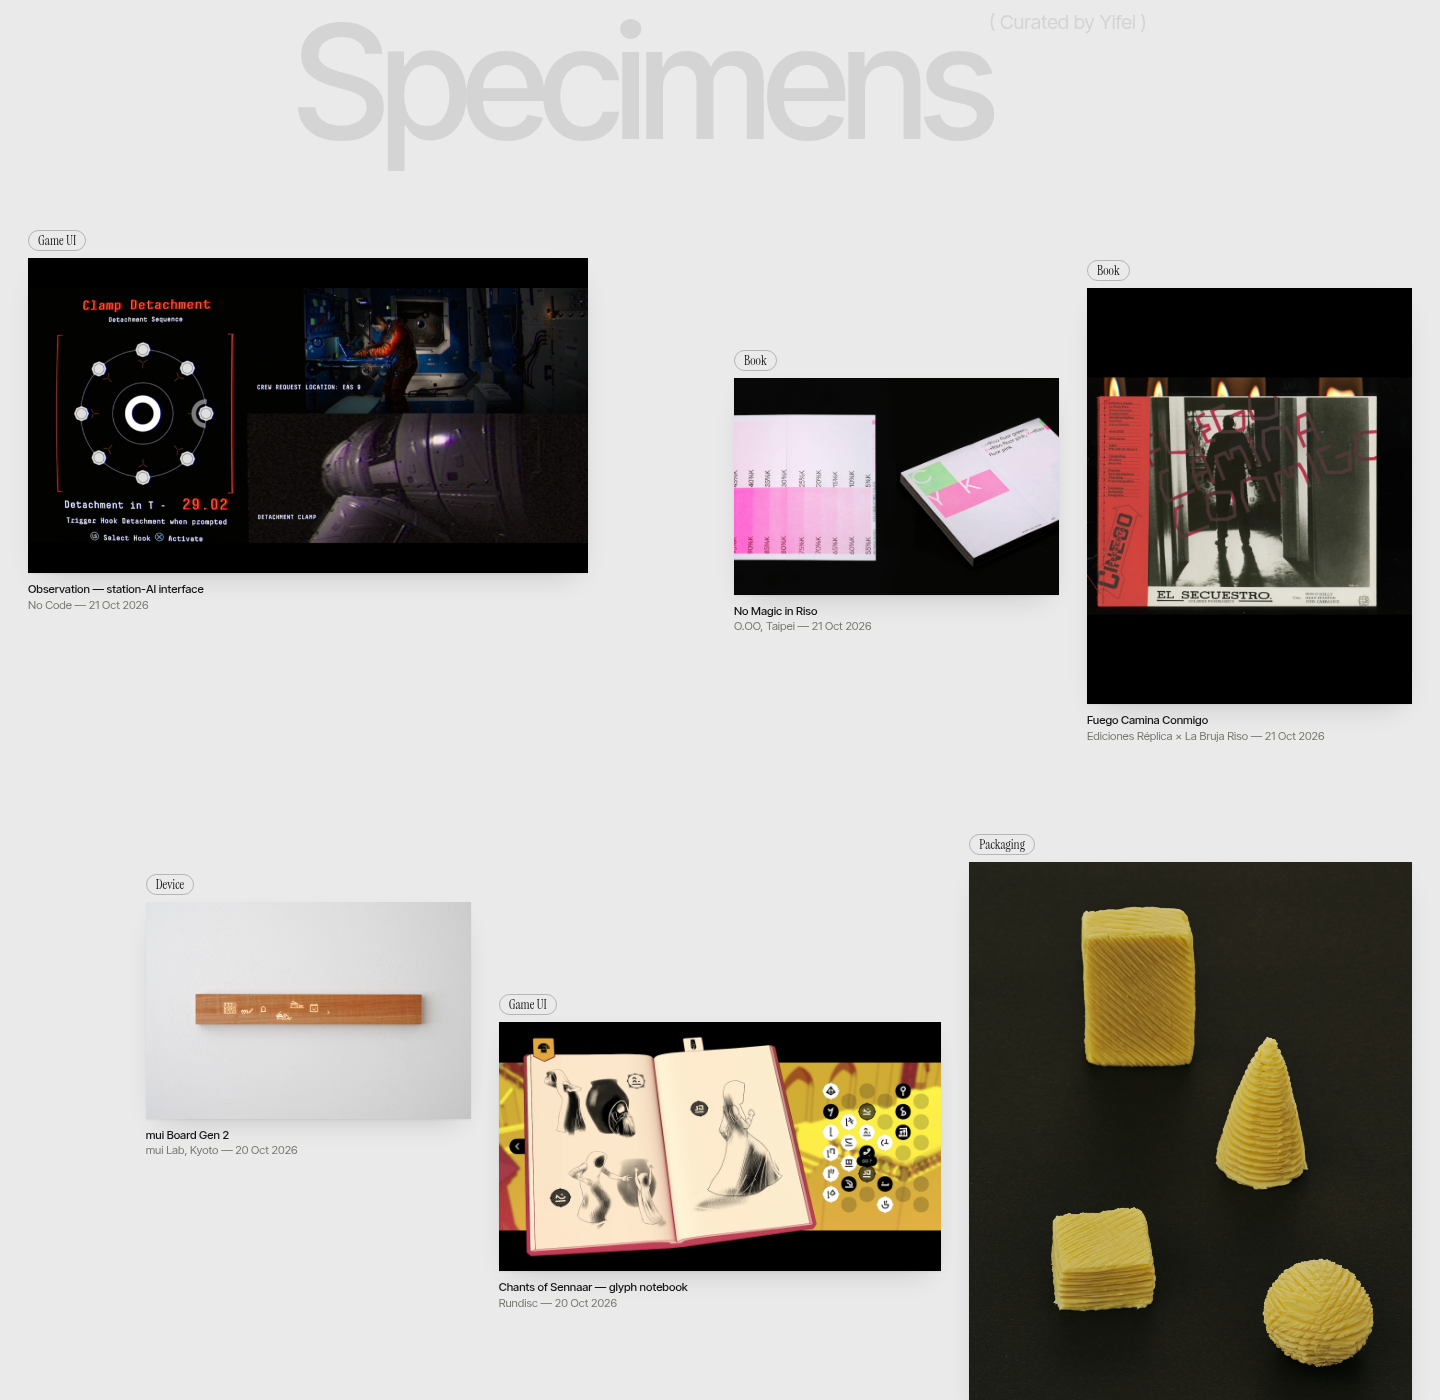
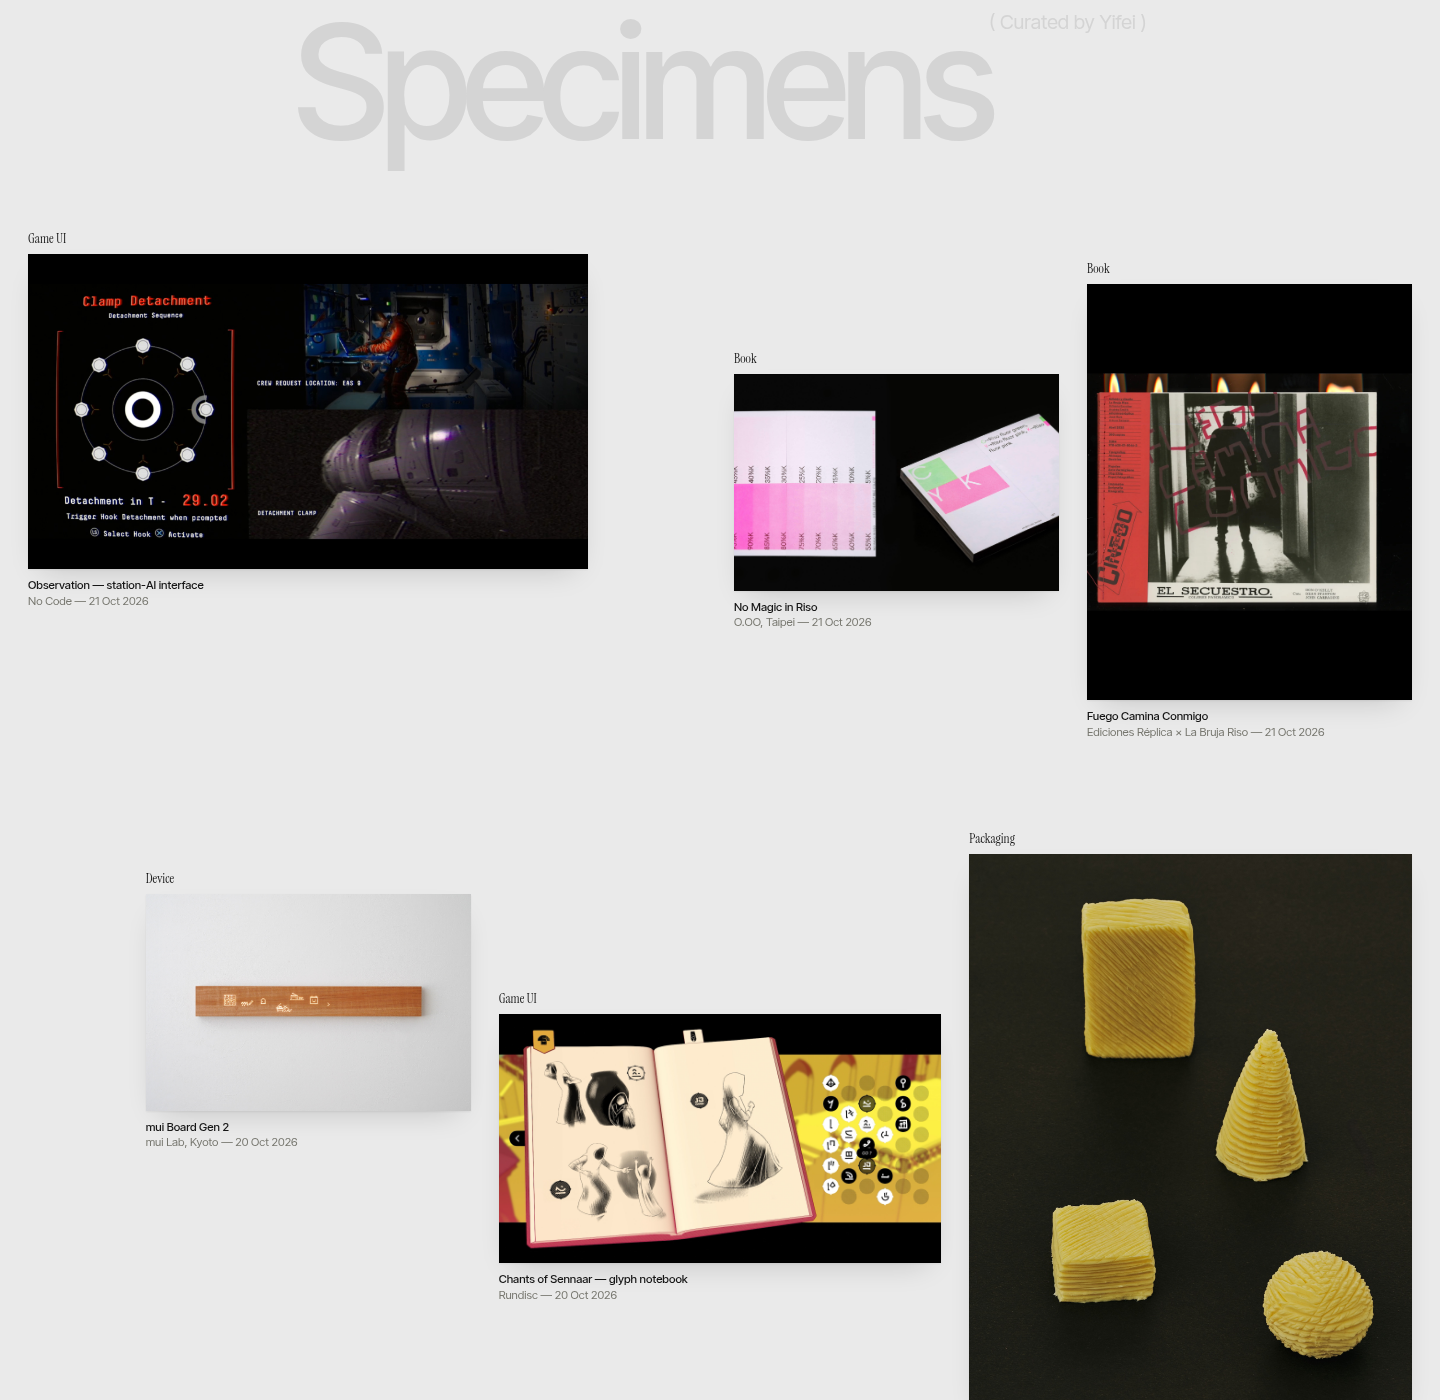
Bare type tags

diff --git a/index.html b/index.html
@@ -25,7 +25,7 @@ footer{padding:0 28px 28px;font-size:11px;text-transform:uppercase;color:var(--m
 header{position:sticky;top:0;z-index:5;padding:14px 28px 0;text-align:center;pointer-events:none}
 h1{font-weight:500;font-size:clamp(56px,11vw,180px);letter-spacing:-.055em;line-height:.86;padding:0;border:0;color:#d4d4d4}
 h1 sup{font-size:.126em;letter-spacing:0;vertical-align:top;font-weight:400}
-.tag{display:inline-block;border:1px solid var(--rule);border-radius:99px;padding:1px 9px;font-size:13px}
+.tag{font-size:13px}
 .card{opacity:0;transform:translateY(28px);transition:opacity .9s ease,transform .9s cubic-bezier(.2,.7,.2,1)}.card.in{opacity:1;transform:none}
 @media(prefers-reduced-motion:reduce){.card{opacity:1;transform:none;transition:none}}
 .plate,.index{position:relative;z-index:6}
